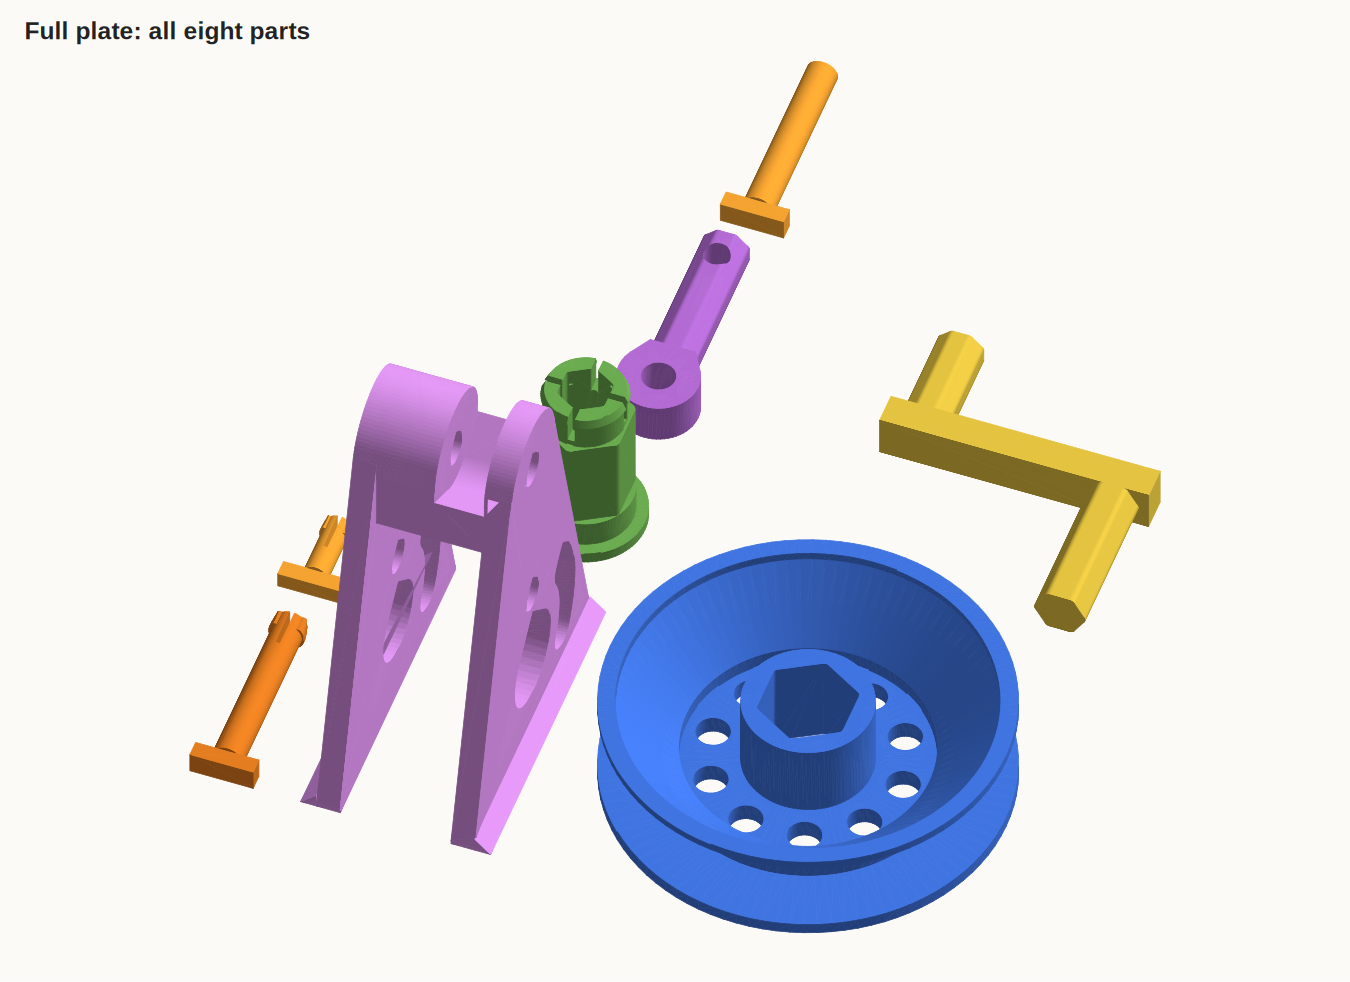
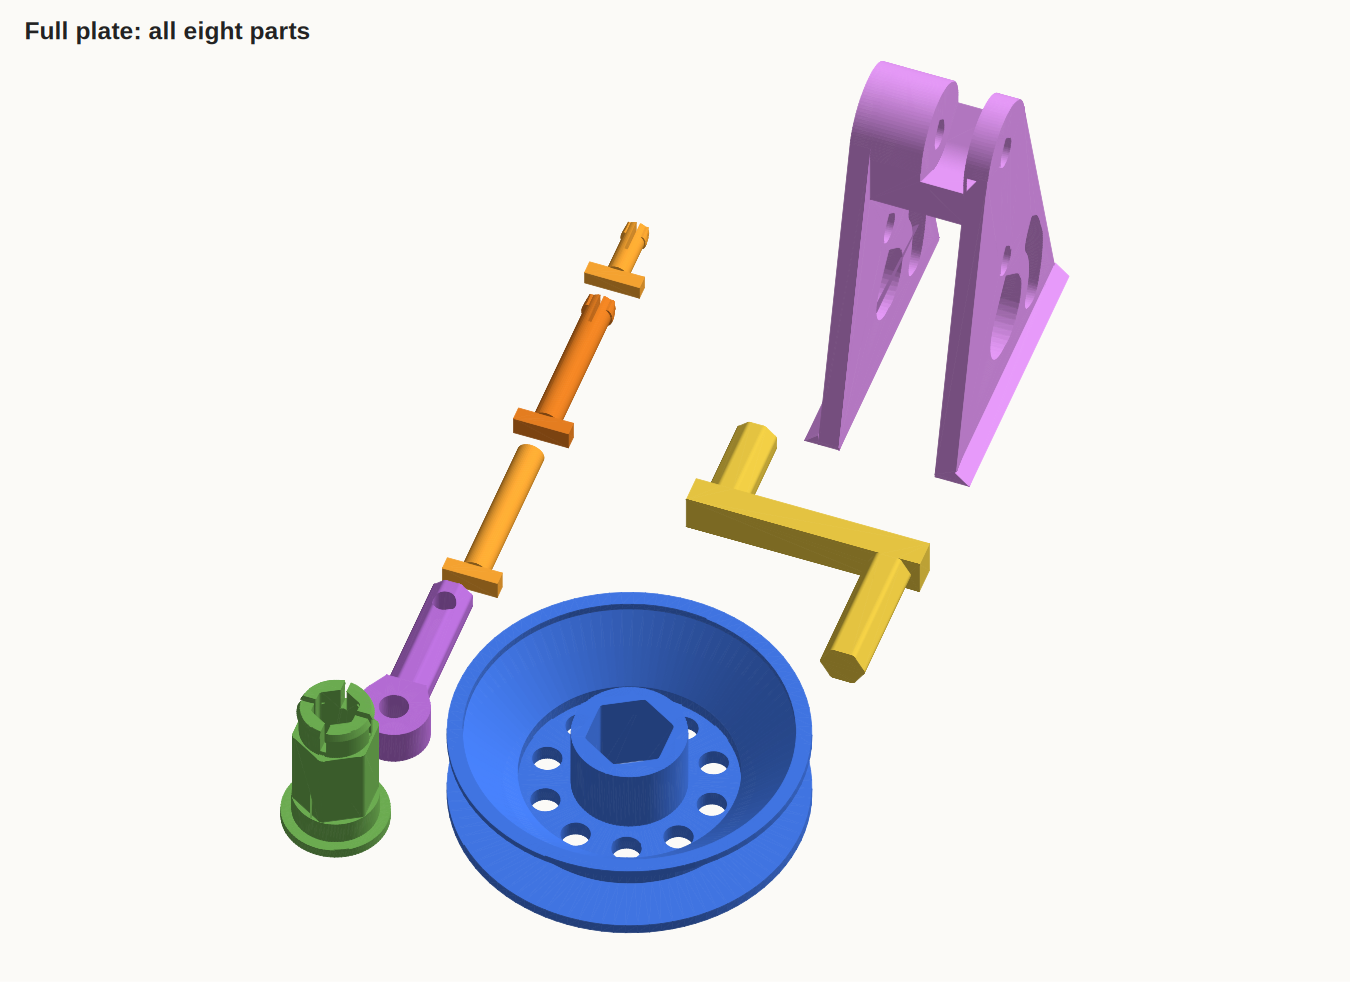
Slice the reel's plates without a brim
PrusaSlicer's low-bed-adhesion warning comes back on both plates; the
README says where to put a brim back.

Claude-Session: https://claude.ai/code/session_012ZLHQmrbQRb1p2b2hkniqx

Changed region(s): [[0.1244, 0.0611, 0.8711, 0.947]]

diff --git a/reel/review.html b/reel/review.html
@@ -186,14 +186,14 @@ button:focus-visible { outline: 2px solid var(--ink); outline-offset: 2px; }
     <div class="sechead">
       <span class="tag">Plates</span>
       <h2>What the slicer says</h2>
-      <p>Both plates sliced with your CR-10 Smart Pro profile and a 4 mm brim. The full plate also gets 4 perimeters and 30% gyroid infill for the load.</p>
+      <p>Both plates sliced with your CR-10 Smart Pro profile, no brim. The full plate also gets 4 perimeters and 30% gyroid infill for the load.</p>
     </div>
     <div class="tablewrap">
       <table>
         <thead><tr><th>Plate</th><th>Time</th><th>PLA</th><th>Warnings</th></tr></thead>
         <tbody>
-          <tr><td>Test fit</td><td class="num">3h 23m</td><td class="num">28 g</td><td>none</td></tr>
-          <tr><td>Full reel</td><td class="num">17h 36m</td><td class="num">168 g</td><td>long bridge: the 28 mm underside of the chassis bridge</td></tr>
+          <tr><td>Test fit</td><td class="num">4h 38m</td><td class="num">40 g</td><td>low bed adhesion</td></tr>
+          <tr><td>Full reel</td><td class="num">17h 19m</td><td class="num">165 g</td><td>low bed adhesion; long bridge: the 28 mm underside of the chassis bridge</td></tr>
         </tbody>
       </table>
     </div>

diff --git a/reel/fit_map.html b/reel/fit_map.html
@@ -117,7 +117,7 @@ button:focus-visible { outline: 2px solid var(--ink); outline-offset: 2px; }
       <li><b>Snaps halved.</b> The tube's lip and the pin tips now overlap their hole's edge by 0.15 mm each side, about half as much as before.</li>
       <li><b>Size ladders.</b> The hex holes, the crank hex and the pin holes each come in three sizes, marked by 1, 2 or 3 notches. One notch is 0.2 mm tighter than the design, two is the design, three is 0.2 looser.</li>
     </ul>
-    <p class="mono" style="font-size:0.9rem;color:var(--muted)">Plate: 4h 49m, 41 g PLA, 4 mm brim. File: reel-test_fit.gcode</p>
+    <p class="mono" style="font-size:0.9rem;color:var(--muted)">Plate: 4h 38m, 40 g PLA, no brim. File: reel-test_fit.gcode</p>
   </section>
 
   <section>

diff --git a/reel/plates.py b/reel/plates.py
@@ -18,14 +18,11 @@ from . import parts as P
 from .spec import (BEAR_CLEAR, BEAR_HEAD, BEAR_SNAP, BOARD_HOLE, CHEEK_T, CRANK_HEX_AF, CROSS_HOLE, PENCIL_HOLE,
                    WHEEL_HEX_AF)
 
-GAP = 12.0         # between parts on the bed, room for a 4 mm brim each side
+GAP = 8.0          # between parts on the bed
 BED_USE = 270.0    # the 290 bed less a 10 mm margin each side
 
 # The full plate carries 10 lb; the domino profile's 3 walls and 10% grid are for dominoes.
 STRONG = {"perimeters": "4", "fill_density": "30%", "fill_pattern": "gyroid"}
-# Without it PrusaSlicer warns of low bed adhesion: the chassis stands 111 tall on its feet,
-# the shaft lies on a 4.7 wide flat.
-BRIM = {"brim_width": "4"}
 
 
 # Size ladders: three of a fit side by side, marked by 1, 2 or 3 notches.
@@ -173,4 +170,4 @@ def placed_views(name: str) -> list[tuple[str, str, Manifold]]:
     return [(n, COLOUR.get(n, n), m) for n, m in arrange({n: f() for n, f in builders.items()}).items()]
 
 
-PLATES = {"test_fit": (TEST_FIT, BRIM), "full": (FULL, {**STRONG, **BRIM})}  # name: (parts, slicer overrides)
+PLATES = {"test_fit": (TEST_FIT, {}), "full": (FULL, STRONG)}  # name: (parts, slicer overrides)

diff --git a/reel/README.md b/reel/README.md
@@ -29,14 +29,14 @@ Every dimension is in `reel/spec.py`. The parts are built in `reel/parts.py`.
 | hanger shaft | on its side, so its layers run the length of the pull |
 | crank, pins | flat |
 
-Both plates slice with the domino profile plus a 4 mm brim. Without the brim, PrusaSlicer warns of low bed adhesion: the chassis stands 111 tall. The full plate also gets 4 perimeters and 30% gyroid infill, since it carries the load. CI uploads the gcode as `reel-test_fit.gcode` and `reel-full.gcode`.
+Both plates slice with the domino profile and no brim. The full plate also gets 4 perimeters and 30% gyroid infill, since it carries the load. CI uploads the gcode as `reel-test_fit.gcode` and `reel-full.gcode`.
 
 | Plate | What's on it | Time | PLA |
 | --- | --- | --- | --- |
-| test_fit | a cheek strip with both tube holes and three pin holes; a ladder bar with three wheel hexes, three pin holes and three cross-pin holes; a short axle tube; the hanger shaft; the hinge and cross pins; three crank-hex stubs; a nominal 1/2" hole. `reel/fit_map.html` says what goes into what. | 4h 49m | 41 g |
-| full | all eight parts | 17h 25m | 167 g |
+| test_fit | a cheek strip with both tube holes and three pin holes; a ladder bar with three wheel hexes, three pin holes and three cross-pin holes; a short axle tube; the hanger shaft; the hinge and cross pins; three crank-hex stubs; a nominal 1/2" hole. `reel/fit_map.html` says what goes into what. | 4h 38m | 40 g |
+| full | all eight parts | 17h 19m | 165 g |
 
-The only slicer warning left on the full plate is "long bridging extrusions", which is the bridge's 28 mm underside.
+PrusaSlicer warns of "low bed adhesion" on both plates: the chassis stands 111 tall on its feet, the cheek strip stands on a 1 mm foot, and the shaft lies on a narrow flat. A 4 mm brim silences it; `brim_width` in `plates.py` puts one back. The full plate also warns of "long bridging extrusions", which is the bridge's 28 mm underside.
 
 Assembly: shaft's tongue into the slot and hinge pin through → wheel between the cheeks → axle tube through from the head side until the lip clicks → tie the line through the anchor hole → shaft up through the shelf, cross pin through above.
 
